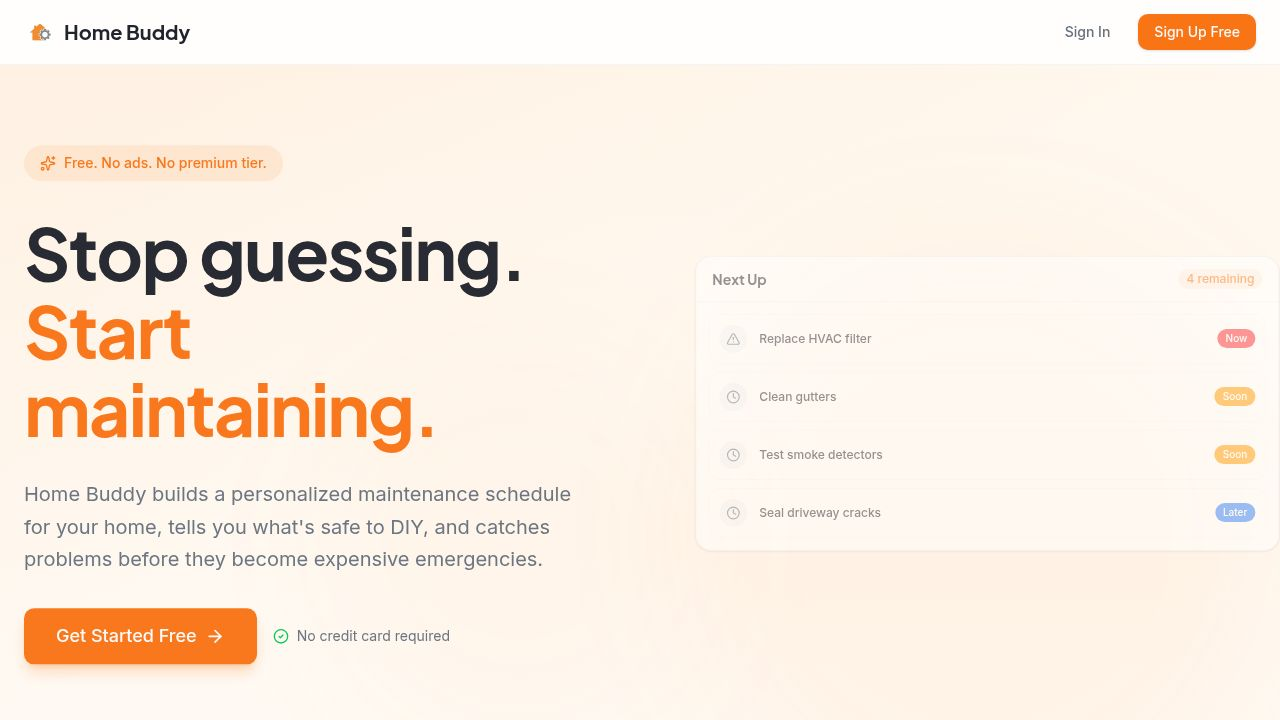
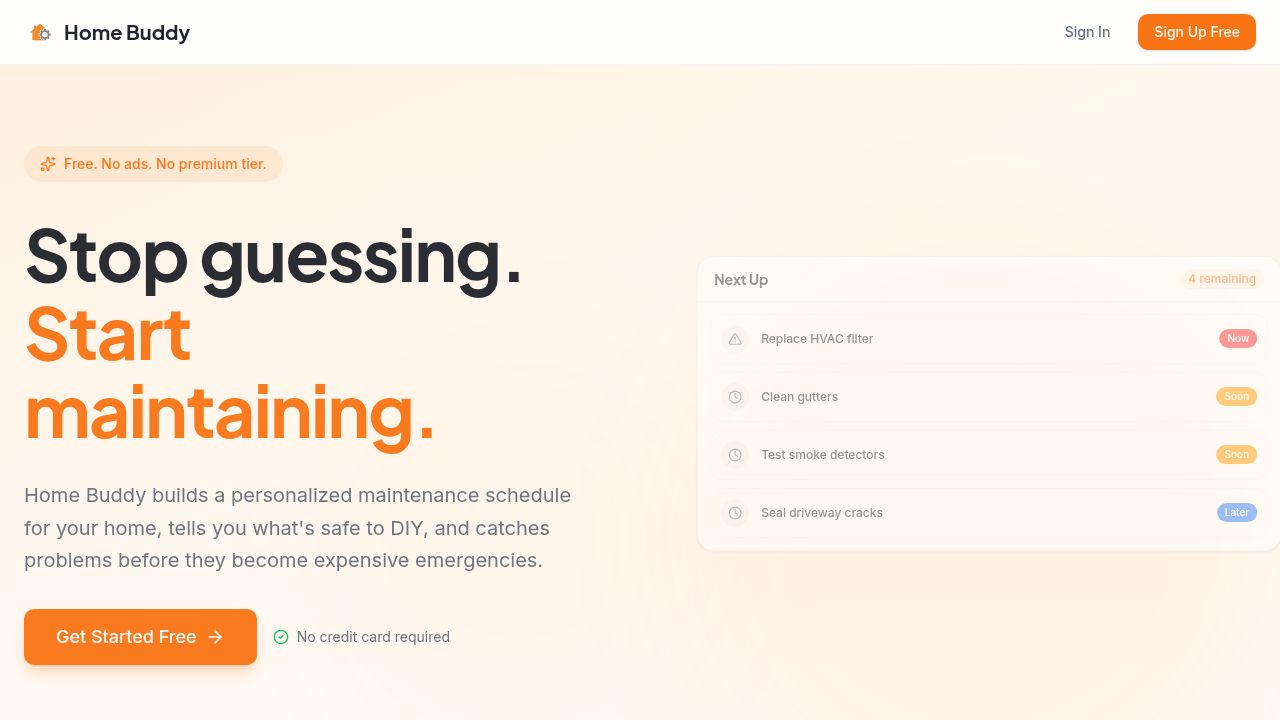
Remove unnecessary buttons and improve landing page clarity
Remove the "Get Started Free" and "Start Managing Your Home" buttons from the landing page, and clean up the unused `ArrowRight` icon import.

Replit-Commit-Author: Agent
Replit-Commit-Session-Id: 352876cc-d09a-478a-a802-75caadc496c8
Replit-Commit-Checkpoint-Type: full_checkpoint
Replit-Commit-Event-Id: 1d7dff5b-1bf4-475c-ac0f-4b35985c3643
Replit-Commit-Screenshot-Url: https://storage.googleapis.com/screenshot-production-us-central1/b9ccbbe1-764c-4419-b0ba-8cc8a840c92a/352876cc-d09a-478a-a802-75caadc496c8/7H1DApA
Replit-Helium-Checkpoint-Created: true

diff --git a/client/src/pages/landing.tsx b/client/src/pages/landing.tsx
@@ -1,4 +1,4 @@
-import { Calendar, MessageSquare, ArrowRight, Sparkles, FileText, Scan, CalendarClock, Shield, Heart, Zap, ChevronRight, CheckCircle2 } from "lucide-react";
+import { Calendar, MessageSquare, Sparkles, FileText, Scan, CalendarClock, Shield, Heart, Zap, ChevronRight, CheckCircle2 } from "lucide-react";
 import { motion } from "framer-motion";
 import { DashboardDemo, ChatDemo, DocumentAnalysisDemo, TaskGenerationDemo } from "@/components/landing-demos";
 import { trackEvent, trackSlugPageView } from "@/lib/analytics";
@@ -105,20 +105,9 @@ export default function Landing() {
                   Home Buddy builds a personalized maintenance schedule for your home, tells you what's safe to DIY, and catches problems before they become expensive emergencies.
                 </p>
 
-                <div className="flex flex-col sm:flex-row gap-4">
-                  <Link
-                    href="/signup"
-                    onClick={() => trackEvent('click', 'landing', 'cta_hero')}
-                    className="inline-flex items-center justify-center h-14 px-8 text-lg font-medium rounded-md bg-primary text-primary-foreground shadow-lg shadow-primary/25 hover:bg-primary/90 no-underline transition-all hover:shadow-primary/35 hover:shadow-xl"
-                    data-testid="button-cta-hero"
-                  >
-                    Get Started Free
-                    <ArrowRight className="ml-2 h-5 w-5" />
-                  </Link>
-                  <div className="flex items-center gap-2 text-sm text-muted-foreground">
-                    <CheckCircle2 className="h-4 w-4 text-green-500" />
-                    <span>No credit card required</span>
-                  </div>
+                <div className="flex items-center gap-2 text-sm text-muted-foreground">
+                  <CheckCircle2 className="h-4 w-4 text-green-500" />
+                  <span>Free forever. No credit card required.</span>
                 </div>
               </motion.div>
 
@@ -375,17 +364,6 @@ export default function Landing() {
               <p className="text-xl text-muted-foreground leading-relaxed">
                 Home Buddy is completely free — no ads, no premium tiers, no data selling. Built by homeowners who got tired of forgetting when they last changed the furnace filter.
               </p>
-              <div className="flex flex-col sm:flex-row gap-4 justify-center">
-                <Link
-                  href="/signup"
-                  onClick={() => trackEvent('click', 'landing', 'cta_bottom')}
-                  className="inline-flex items-center justify-center h-14 px-10 text-lg font-medium rounded-md bg-primary text-primary-foreground shadow-lg shadow-primary/25 hover:bg-primary/90 no-underline transition-all hover:shadow-primary/35 hover:shadow-xl"
-                  data-testid="button-cta-bottom"
-                >
-                  Start Managing Your Home
-                  <ArrowRight className="ml-2 h-5 w-5" />
-                </Link>
-              </div>
               <p className="text-sm text-muted-foreground">
                 Free forever. Takes 2 minutes to set up.
               </p>
